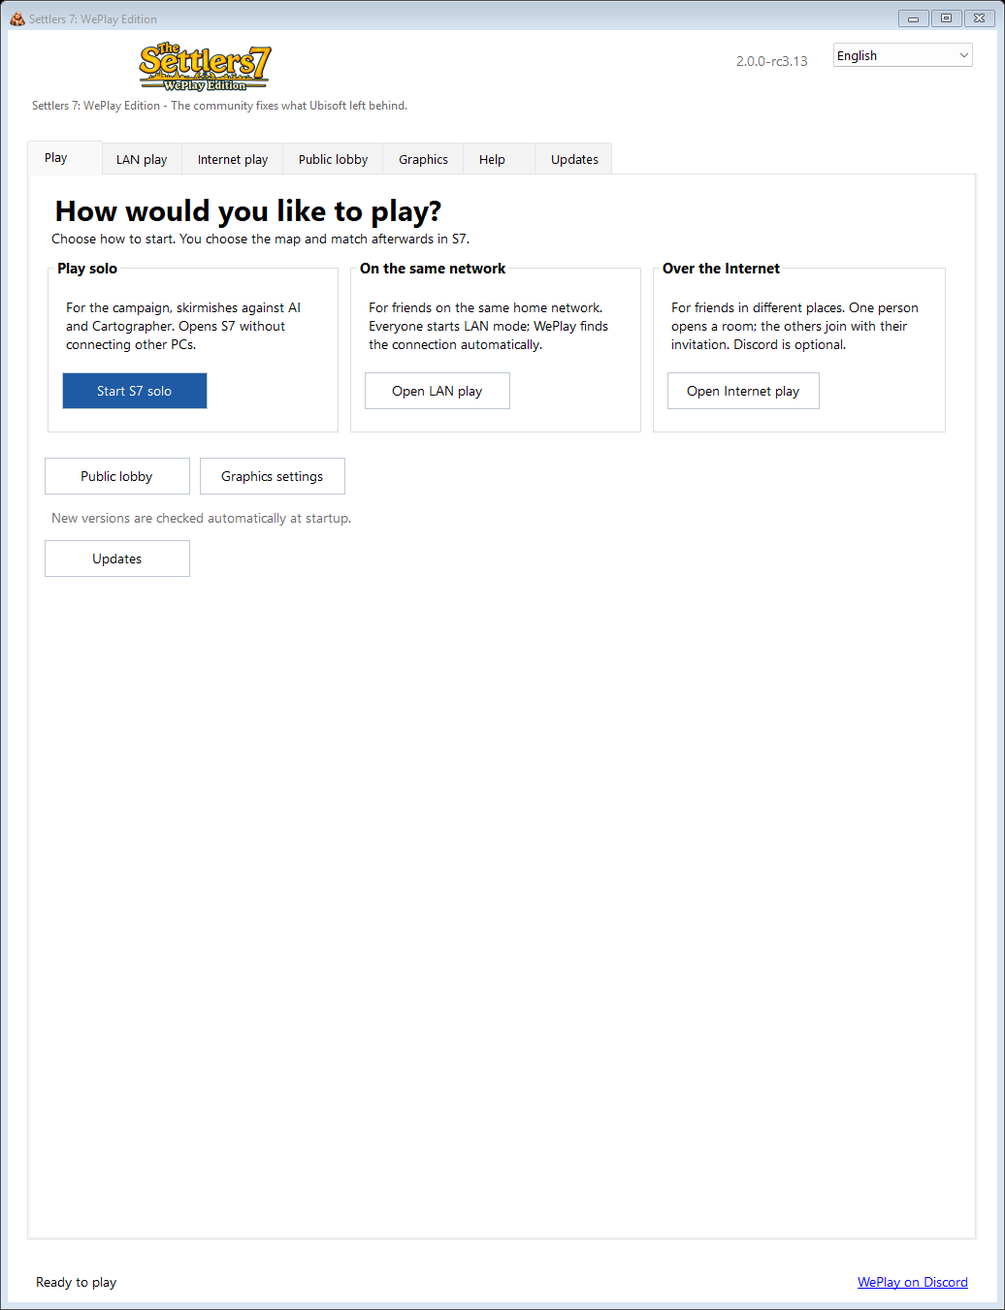
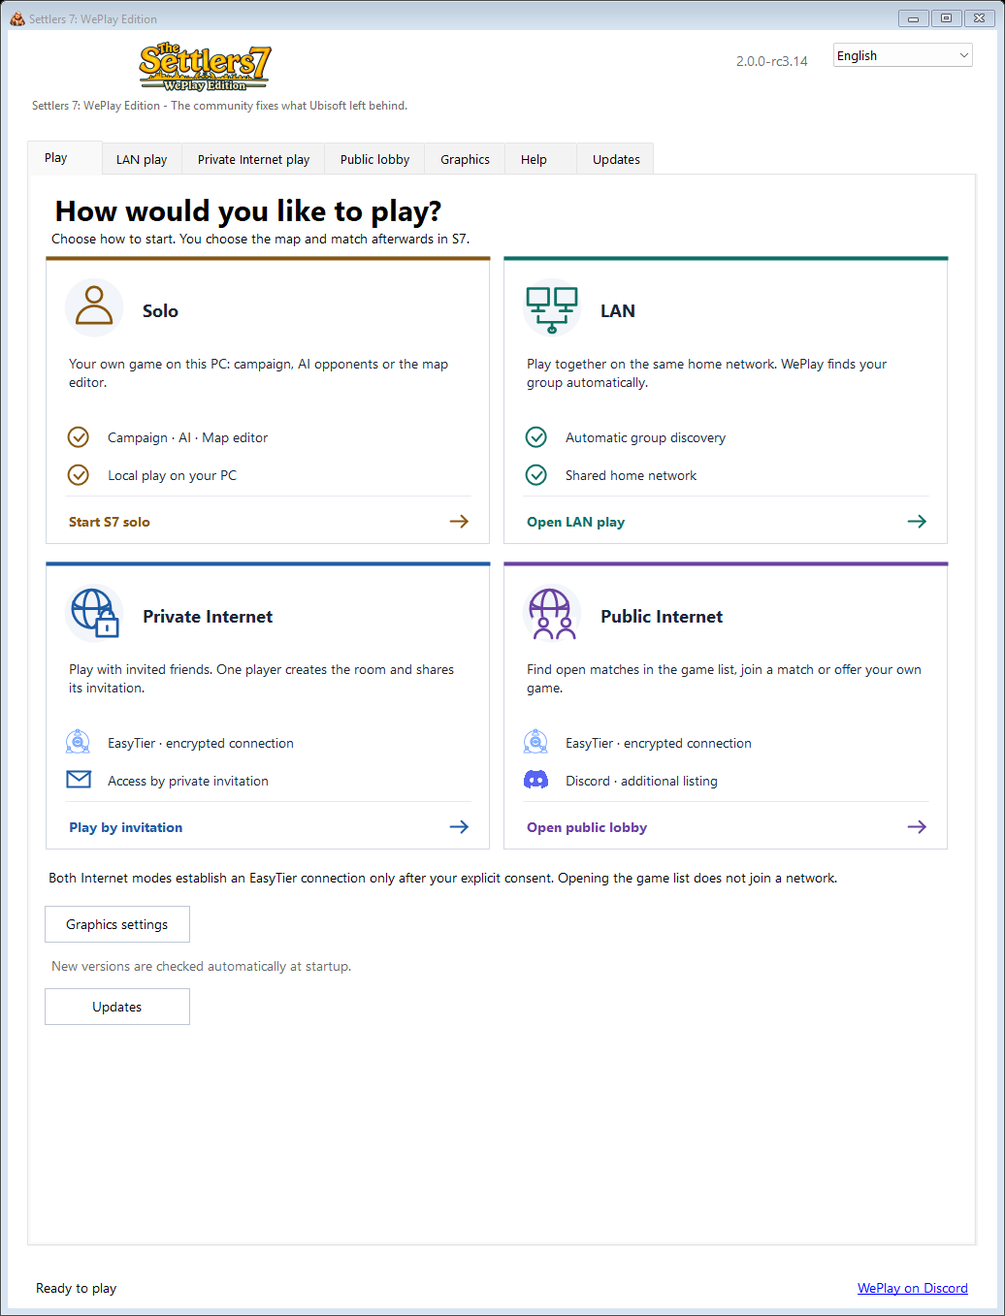
Prepare RC3.14 global lobby and standalone update release

diff --git a/tools/desktop/build_rc2.py b/tools/desktop/build_rc2.py
@@ -1,4 +1,4 @@
-"""Build the RC3.13 public lobby and network isolation preview from pinned inputs."""
+"""Build the RC3.14 global lobby and standalone update preview from pinned inputs."""
 import argparse
 import hashlib
 import json
@@ -14,7 +14,7 @@ import compatibility as content
 import install
 
 
-def build(stage,output,desktop_publish,dotnet,probe,compiler,*,base_package=None,service=None,python_zip=None,dxvk_dll=None,dxvk_license=None,easytier_runtime=None,easytier_source=None,windows_helpers=None,update_sequence=12,game_directory=False):
+def build(stage,output,desktop_publish,dotnet,probe,compiler,*,base_package=None,service=None,python_zip=None,dxvk_dll=None,dxvk_license=None,easytier_runtime=None,easytier_source=None,windows_helpers=None,update_sequence=13,game_directory=False):
     stage,output,desktop_publish,dotnet,probe,compiler=map(content.plain,(stage,output,desktop_publish,dotnet,probe,compiler))
     if stage.exists() or not stage.parent.is_dir():raise ValueError('Use a new stage directory')
     if not stage.is_relative_to(REPO/'work'):raise ValueError('Stage must be inside work')
@@ -47,15 +47,15 @@ def build(stage,output,desktop_publish,dotnet,probe,compiler,*,base_package=None
     guide=REPO/'docs/RC3-INTERNET.md'
     if guide.is_file():shutil.copyfile(guide,app/'LIESMICH.txt')
     if (REPO/'docs/DISCORD-INTEGRATION.md').is_file():shutil.copyfile(REPO/'docs/DISCORD-INTEGRATION.md',app/'DISCORD-INTEGRATION.md')
-    shutil.copyfile(REPO/'docs/RC3.13-PUBLIC-LOBBY.md',app/'RELEASE-NOTES.md')
+    shutil.copyfile(REPO/'docs/RC3.14-GLOBAL-LOBBY.md',app/'RELEASE-NOTES.md')
     if easytier_runtime is not None:
         sys.path.insert(0,str(REPO/'tools/easytier'))
         import source_bundle
         sources=app/'Source';sources.mkdir()
         source_bundle.build(easytier_source,sources/'EasyTier-corresponding-source.zip')
         shutil.copyfile(sources/'EasyTier-corresponding-source.zip',output/'EasyTier-corresponding-source.zip')
-    release={'format':'s7-desktop-release-v1','release':'RC3.13 Public Lobby and Network Isolation','network_revision':7,'game_bits':32,
-             'version':'2.0.0-rc3.13','update_sequence':update_sequence,'update_channel':'preview',
+    release={'format':'s7-desktop-release-v1','release':'RC3.14 Global Lobby and Standalone Updates','network_revision':7,'game_bits':32,
+             'version':'2.0.0-rc3.14','update_sequence':update_sequence,'update_channel':'preview',
              'internet_transport':'EasyTier 2.6.4-weplay-npcap-free-acl1' if easytier_runtime is not None else None,
              'internet_gameplay_verified':False,
              'project':'Settlers-7-WePlay-Edition',
@@ -99,7 +99,7 @@ def refresh_stage(app,desktop_publish):
         if path.is_file() and path.suffix in ('.exe','.dll','.json'):shutil.copyfile(path,app/path.name)
     if (REPO/'docs/RC3-INTERNET.md').is_file():shutil.copyfile(REPO/'docs/RC3-INTERNET.md',app/'LIESMICH.txt')
     if (REPO/'docs/DISCORD-INTEGRATION.md').is_file():shutil.copyfile(REPO/'docs/DISCORD-INTEGRATION.md',app/'DISCORD-INTEGRATION.md')
-    shutil.copyfile(REPO/'docs/RC3.13-PUBLIC-LOBBY.md',app/'RELEASE-NOTES.md')
+    shutil.copyfile(REPO/'docs/RC3.14-GLOBAL-LOBBY.md',app/'RELEASE-NOTES.md')
     for name in ('LIESMICH.txt','START-HIER.txt'):(package/name).unlink(missing_ok=True)
     return app
 
@@ -111,7 +111,7 @@ if __name__=='__main__':
     parser.add_argument('--easytier-runtime',required=True)
     parser.add_argument('--easytier-source',required=True)
     parser.add_argument('--windows-helpers',required=True)
-    parser.add_argument('--update-sequence',type=int,default=12)
+    parser.add_argument('--update-sequence',type=int,default=13)
     parser.add_argument('--game-directory',action='store_true')
     values=parser.parse_args()
     build(values.stage,values.output,values.desktop_publish,values.dotnet,values.probe,values.compiler,

diff --git a/README.md b/README.md
@@ -2,22 +2,29 @@
 
 **The community fixes what Ubisoft left behind.**
 
-Play **The Settlers 7 History Edition** locally, with friends on your home network,
-or in private Internet rooms — from one English/German Windows launcher.
+## [Download Installer — RC3.14 · Setup.exe](https://github.com/R4nd0/Settlers-7-WePlay-Edition/releases/download/v2.0.0-rc3.14/Setup.exe)
+
+Windows 10/11 x64 · English / Deutsch · Install or update your existing WePlay copy.
+
+[Download ZIP](https://github.com/R4nd0/Settlers-7-WePlay-Edition/releases/download/v2.0.0-rc3.14/WePlay-RC3.14.zip) · [Release notes and checksums](https://github.com/R4nd0/Settlers-7-WePlay-Edition/releases/tag/v2.0.0-rc3.14)
+
+Play **The Settlers 7 History Edition** solo, on LAN, in private Internet rooms
+or through the global public lobby — from one English/German Windows launcher.
 WePlay detects your supported game installation, prepares a separate copy and
 keeps the original intact. Each player needs their own supported game files.
 
-**RC3.13** adds a **Public lobby** in the launcher and the in-game **WePlay
-Online** browser. Published games show their player counts, open slots and
-compatibility. Private rooms by invitation remain a separate path and are not
-published automatically.
+**RC3.14** separates these four ways to play into distinct cards with symbols.
+The central **Public lobby** works automatically in the launcher and the in-game
+**WePlay Online** browser, without a Discord account. Public games show player
+counts, open slots and compatibility. Private invitation rooms have their own
+controls; optional Discord publication belongs in Public Internet.
 
 Before each new EasyTier connection, the launcher explains the virtual network,
 address visibility and remaining risks, and asks for explicit consent. Browsing
 the lobby starts no tunnel. The managed tunnel permits the required game/lobby
 ports and their replies, and denies other services and forwarding. It also keeps
 your startup options automatically, removing the repeated reset-options question.
-See [RC3.13 release notes and limits](docs/RC3.13-PUBLIC-LOBBY.md) and
+See [RC3.14 release notes and limits](docs/RC3.14-GLOBAL-LOBBY.md) and
 [directory setup and verification](docs/SHARED-GAME-DIRECTORY.md).
 
 Private standalone exports now also open correctly through **App/S7Launcher.exe**:
@@ -39,7 +46,7 @@ recovery and multiplayer castle corrections. Keep Steam running when using that 
 See [RC3.11 changes and test limits](docs/RC3.11-MULTIPLAYER-SAVES.md) and the
 [Steam verification and remaining limits](docs/STEAM-COMPATIBILITY.md).
 
-**[Download RC3.13 ZIP](https://github.com/R4nd0/Settlers-7-WePlay-Edition/releases/download/v2.0.0-rc3.13/WePlay-RC3.13.zip)** · [Setup.exe](https://github.com/R4nd0/Settlers-7-WePlay-Edition/releases/download/v2.0.0-rc3.13/Setup.exe) · [Release notes and checksums](https://github.com/R4nd0/Settlers-7-WePlay-Edition/releases/tag/v2.0.0-rc3.13) · [Join WePlay on Discord](https://discord.gg/j2eQgVzssc)
+[Join WePlay on Discord](https://discord.gg/j2eQgVzssc)
 
 **Includes RC3.7.1 maintenance:** correct version display and automatic cleanup of older
 managed game files, preserving saves and personal files. The safe switch to a
@@ -50,11 +57,11 @@ new game copy still temporarily needs extra disk space.
 Castle Forge design inside matches, including its appearance on the other
 client. [Castle Restoration: changes and verification](docs/RC3.7-CASTLES.md).
 
-![WePlay RC3.13 launcher in English](docs/screenshots/launcher-en.png)
+![WePlay RC3.14 launcher in English](docs/screenshots/launcher-en.png)
 
-*English RC3.13 launcher, rendered with demonstration data.*
+*English RC3.14 launcher, rendered with demonstration data.*
 
-### Development changes — not released yet
+### Standalone updates and the central lobby
 
 Existing-installation updates now stage and verify complete packages, recover
 interrupted package/standalone metadata switches, track failed game preparations
@@ -63,7 +70,7 @@ with contained old-version cleanup still pending. See
 [update recovery and qualification](docs/UPDATE-RECOVERY.md).
 
 The start page shows four distinct cards: **Solo**, **LAN**, **Private Internet**
-and **Public Internet**. The next launcher uses the centrally hosted
+and **Public Internet**. The launcher uses the centrally hosted
 [WePlay public directory](https://weplay-multiplayer.weplay-community.workers.dev/health)
 automatically and refreshes the visible game list. Public hosting and joining
 work without linking Discord. **Also publish on Discord** remains an optional
@@ -76,18 +83,16 @@ The service moved to its neutral community address on November 4, 2026. Previous
 Discord publisher links were invalidated with the owner's approval. Use
 `/weplay-hilfe` to obtain a fresh private linking code if you want Discord
 publication. Existing RC3.13 readers can use a fresh directory code from that
-helper; the automatic default and Discord-independent hosting require the
-unreleased launcher/package changes.
-
-These source changes are not included in the RC3.13 downloads above.
+helper; the automatic default and Discord-independent hosting are included in
+RC3.14.
 
 ## What you can do
 
-| Feature | Available in RC3.13 |
+| Feature | Available in RC3.14 |
 | --- | --- |
 | Local play | Start your prepared game with remembered graphics settings and player name. |
 | LAN multiplayer | Discover your LAN group automatically; create or join the actual match inside S7. |
-| Public lobby | Browse published games in the launcher or S7; join their private room, then select the native match in S7. Initial reader linking uses the Discord helper. |
+| Public lobby | Browse the central directory in the launcher or S7 without Discord; join the selected game's room, then select the native match in S7. |
 | Connection consent and isolation | Read the EasyTier explanation and explicitly agree before each new room connection; unrelated tunnel traffic and forwarding are denied. |
 | Internet rooms | Create a private room or join by invitation, using integrated EasyTier. No separate VPN installation, EasyTier account or rented WePlay server is needed. |
 | Discord community | Find players, share room invitations and optionally report your public games to the board in #🎮multiplayer. |
@@ -101,10 +106,10 @@ These source changes are not included in the RC3.13 downloads above.
 
 ## Install or upgrade
 
-1. Download and unpack the **RC3.13 ZIP**, or download **Setup.exe** directly. Close S7 and WePlay before upgrading.
-2. Run Setup; for an upgrade, use your existing WePlay application folder.
+1. Download and unpack the **RC3.14 ZIP**, or download **Setup.exe** directly. Close S7 and WePlay before upgrading. This public ZIP contains no commercial game files.
+2. Run Setup; for an upgrade, use your existing WePlay application folder. For a complete standalone export, choose **Select existing standalone copy** and select its outer folder or App folder. No original installation is needed for that update.
 3. For a first installation, select your original supported History Edition. Existing prepared copies can update from their own retained files. A complete private standalone export opens through App/S7Launcher.exe or WePlay-Starten.cmd and needs no Setup or source installation.
-4. Install the **same RC3.13 build on every player's PC** before playing together. Clients predating RC3.7 use a different castle message format.
+4. Install the **same RC3.14 build on every player's PC** before playing together. Clients predating RC3.7 use a different castle message format.
 
 You need Windows x64 (Windows 10 22H2/build 19045 or newer, including Windows 11),
 your own supported History Edition and space for a separate game copy.
@@ -148,10 +153,13 @@ templates are not supported. [Save/reload instructions and verification](docs/RC
 ## Play over the Internet
 
 A WePlay room connects the PCs; the actual match is created afterwards inside
-S7. Discord is optional and does not distribute private room invitations.
+S7. Discord is optional. Choose **Public Internet** to find players through the
+central directory, or **Private Internet** to play by invitation.
 For the guided development interface, see the [launcher walkthrough (Deutsch)](docs/LAUNCHER-GUIDE.md).
 
-1. Everyone opens **Internet play** and enters their player name.
+For a private room:
+
+1. Everyone opens **Private Internet** and enters their player name.
 2. The creator selects **Create room and start** and approves the Windows network permission prompt.
 3. Use **Copy invitation**, or **Copy for Discord** to include joining instructions. Share that private invitation only with your intended players.
 4. Friends paste it into **Paste your private invitation** and choose **Join room and start**.
@@ -173,6 +181,13 @@ launcher window keeps it in the system tray.
 
 [Internet room guide](docs/RC3-INTERNET.md)
 
+For public games, open **Public Internet**. Select a compatible open game and
+choose **Join selected game**, or create your own public room. Agree to the
+connection explanation, then create/join the actual match inside S7. Its listing
+appears automatically while the hosting launcher remains connected. Optional
+Discord publication is configured here. The public list refreshes every 15
+seconds while visible. [Central service and test limits](docs/PUBLIC-LOBBY-SERVICE.md).
+
 ## Discord: find players and show public games
 
 Join **[the WePlay Discord server](https://discord.gg/j2eQgVzssc)**. The launcher
@@ -184,8 +199,8 @@ choose where to paste/send it.
 For the optional automatic game board:
 
 1. In **#🎮multiplayer**, run **`/weplay-hilfe`** and choose **Launcher verbinden**.
-2. Paste the private connection code into **Connect to Discord** in the launcher's Internet tab. This code is not a bot token.
-3. Review **Automatically show my public games in #🎮multiplayer** before launch. Connecting initially enables it; you can turn it off or disconnect.
+2. Paste the private connection code into **Connect to Discord** in **Public Internet / Public lobby**. This code is not a bot token.
+3. Enable **Also publish on Discord** if you want this extra publication. Connecting initially leaves it off; you can turn it off or disconnect later.
 
 Connected launchers can report their own public-game titles, player counts/free
 slots and open/full or start/loading signals. Private games and room invitations

diff --git a/docs/RC3.14-GLOBAL-LOBBY.md b/docs/RC3.14-GLOBAL-LOBBY.md
@@ -1,0 +1,57 @@
+# RC3.14 — Global Lobby and Standalone Updates
+
+The launcher now presents four distinct ways to play: **Solo**, **LAN**,
+**Private Internet** and **Public Internet**, with recognizable symbols and
+separate controls. Both Internet paths use the isolated EasyTier transport.
+
+## Global public lobby
+
+- The central WePlay directory is configured automatically. Browse games in the
+  launcher or through **WePlay Online** inside S7. The visible launcher list
+  refreshes every 15 seconds and preserves the selected game.
+- Hosting and joining public games no longer require a Discord account or a
+  linking code. Joining obtains access to that game's room; select the actual
+  match inside S7 after connecting.
+- **Also publish on Discord** belongs in Public Internet and remains optional.
+  Linking Discord initially leaves publication off. Private Internet contains
+  invitation sharing and does not publish games automatically.
+- The service uses its neutral community address. Previous Discord publisher
+  links were revoked during migration; use `/weplay-hilfe` for a fresh private
+  linking code if you want optional Discord publication.
+- Browsing starts no tunnel. Each new room connection still requires explicit
+  EasyTier consent; game-port isolation and forwarding restrictions remain.
+
+## Existing installations and standalone copies
+
+- Setup recognizes complete standalone exports through their outer folder or
+  App folder and updates them without the original installation or system Python.
+  Close S7 and WePlay first; choose **Select existing standalone copy** if needed.
+- Complete packages are staged and hash-verified before replacement. Interrupted
+  package swaps and paired installation/standalone metadata can recover on retry.
+- Failed preparations track their owned files; updates reserve room for archive,
+  repair and save migration. Unknown or modified files remain protected.
+- Complete exports remain movable with contained old-version cleanup pending.
+  Starting **App/S7Launcher.exe** recognizes the bundled game before setup.
+
+## Downloads and verification
+
+Use **Setup.exe** or unpack **WePlay-RC3.14.zip** and run its Setup. The public ZIP
+contains the installer, notes, signed update manifest and EasyTier corresponding
+source; it contains no commercial game files. A first installation needs your
+supported History Edition. Existing complete standalone copies need no original.
+Standard Steam copies retain their existing Steam-client requirement.
+
+Qualified before release: source regressions, bilingual launcher/layout checks,
+package/signature checks, and standalone update/recovery tests. Two real local
+Ubisoft game clients found and joined one another using the production directory
+and encrypted join broker, with two pinned EasyTier processes.
+
+That multiplayer check used same-PC native loopback and EasyTier without TUN.
+It does **not** qualify two remote PCs, full Internet gameplay, a new Steam live
+test or long-match/desync stability. Native game and EasyTier binaries are
+unchanged. Earlier multiplayer save/autosave and crash fixes are retained.
+The installer/helpers have no trusted Windows publisher signature.
+
+See [service test limits](https://github.com/R4nd0/Settlers-7-WePlay-Edition/blob/main/docs/PUBLIC-LOBBY-SERVICE.md),
+[update recovery](https://github.com/R4nd0/Settlers-7-WePlay-Edition/blob/main/docs/UPDATE-RECOVERY.md)
+and [launcher flows](https://github.com/R4nd0/Settlers-7-WePlay-Edition/blob/main/docs/LAUNCHER-LOBBY-FLOWS.md).

diff --git a/docs/PRIVATE-STANDALONE.md b/docs/PRIVATE-STANDALONE.md
@@ -28,13 +28,14 @@ opening the EXE; their direct EXE start can incorrectly show initial setup.
 RC3.13 checks the bundled instance before showing the launcher, including after
 a whole-folder move. An incomplete or inconsistent export shows a standalone
 error instead of requesting an original installation. Re-extract the complete
-private backup to recover it; do not run the public Setup inside the export.
+private backup to recover it. Normal startup needs no Setup; use the maintenance
+instructions below when deliberately updating a complete export.
 
 ## Independent maintenance (RC3.12)
 
 ### Manual Setup and portable folders
 
-**Unreleased installer changes:** future Setup builds show the destination
+**RC3.14 installer:** Setup shows the destination
 folder and a dedicated **Select existing standalone copy** button. They detect
 an export next to Setup, its remembered application directory, or an existing
 WePlay desktop/Start-menu shortcut that points to a portable copy. Other copies
@@ -52,10 +53,10 @@ copy and RepairSource, preserving saves and settings without the original.
 All four EasyTier license/notice files are included in the pinned runtime
 manifest. Earlier RC3.13 preparation omitted them from the manifest; updating
 over RC3.12 left those old files behind and the strict inventory check rejected
-the result. Future packages retain and verify these notices rather than
+the result. RC3.14 packages retain and verify these notices rather than
 loosening the integrity check.
 
-These changes are in development; the published RC3.13 Setup is unchanged.
+These changes are included in RC3.14; the older published RC3.13 Setup is unchanged.
 The follow-up [recovery flow](UPDATE-RECOVERY.md) replaces complete packages,
 journals the active-selection/portable-descriptor pair, tracks interrupted game
 preparations and preserves contained cleanup history when an export is moved.
@@ -64,8 +65,8 @@ Further source hardening gives a parallel-operation preflight a distinct busy
 exit code, so Setup reports that an update is already using the copy rather than
 suggesting it is incomplete. Runtime validation also requires all four notices
 independently of the supplied lock-file inventory, preventing accidental omission
-from being redefined as a valid runtime. These follow-ups have source-only checks;
-they have not been deployed to running copies.
+from being redefined as a valid runtime. Source checks and isolated update tests
+are recorded below; the installer never patches a running game copy.
 Verification passed with a complete prior RC3.12 private export: the actual
 installer selected and adopted its initially unbound copy before replacement,
 then the launcher backend rebuilt the owned game with original discovery

diff --git a/docs/DISCORD-INTEGRATION.md b/docs/DISCORD-INTEGRATION.md
@@ -31,22 +31,20 @@ migration; do not run two production directory writers.
 
 ## Player flow
 
-Discord is optional for creating or joining an Internet room. It is a directory,
-not a game transport or an automatic invitation service. Players obtain the
-private WePlay room invitation directly from its creator, then select the
-actual match inside S7. A Discord community link, a publisher connection code
-and a room invitation have different purposes; see the [launcher walkthrough](LAUNCHER-GUIDE.md).
-The revised development UI places pairing under **Discord: find players
-(optional)** → **Set up / manage automatic match listings** → **Link match
-listings**; the published RC3.5 pairing labels below are unchanged.
+Discord is optional for creating or joining Internet rooms. RC3.14's central
+public directory works without Discord. Private rooms use an invitation shared
+by their creator; public listings obtain room access through the encrypted join
+broker. Players select the actual match inside S7 after connecting. A Discord
+community link, a publisher connection code and a room invitation have different
+purposes; see the [launcher flows](LAUNCHER-LOBBY-FLOWS.md).
 
 1. In #🎮multiplayer run `/weplay-hilfe` and choose **Launcher verbinden**.
 2. Copy the private connection code from Discord's ephemeral response into
-   **Mit Discord verbinden** in the launcher's Internet tab. This is a limited
+   **Mit Discord verbinden** in **Public Internet / Public lobby**. This is a limited
    publisher grant, never the bot token. A new code invalidates the old grant.
-3. Select whether to show your own public games before starting Internet play.
-   The connection action enables this preference initially; the checkbox can
-   disable it before launch. Private games are omitted in all cases.
+3. Explicitly enable **Also publish on Discord** before opening your public room
+   if you want this additional listing. Linking leaves it off initially. Private
+   games are omitted in all cases.
 4. The launcher reports changes while the game is open, sends a heartbeat every
    minute and withdraws its report on normal closure. Missing reports expire
    after three minutes; the minute Cron removes them from the displayed board.

diff --git a/docs/LAUNCHER-LOBBY-FLOWS.md b/docs/LAUNCHER-LOBBY-FLOWS.md
@@ -1,6 +1,6 @@
 # Launcher game paths and Internet lobbies
 
-The unreleased launcher presents four equal cards in a two-by-two grid on its
+The RC3.14 launcher presents four equal cards in a two-by-two grid on its
 start page. Each entire card is a keyboard-accessible button with a readable
 title, a distinct symbol, features and a specific action. Color is an additional
 cue, not the only distinction.
@@ -49,7 +49,7 @@ automatically joins the host's bounded room after a player chooses a match.
 Per-room isolation and the existing restrictive network policy are retained;
 this UI change does not widen peer access or deploy a global shared network.
 
-The unreleased directory configuration points to the centrally operated neutral
+The RC3.14 directory configuration points to the centrally operated neutral
 community service. Opening the public tab fetches its game metadata; the visible
 list refreshes every 15 seconds and keeps the selected game when still present.
 Readers need no linking code. Explicit directory/join codes remain available for

diff --git a/docs/SHARED-GAME-DIRECTORY.md b/docs/SHARED-GAME-DIRECTORY.md
@@ -1,8 +1,8 @@
 # Shared game directory and private joining
 
-The directory protocol is included in RC3.13. The central default service and
-Discord-independent public hosting described below are unreleased follow-up
-changes; they are not in the existing RC3.13 downloads. The earlier RC3.12 ZIP
+The directory protocol is included in RC3.13. RC3.14 adds the central default
+service and Discord-independent public hosting described below; these are not
+in the older RC3.13 downloads. The earlier RC3.12 ZIP
 does not contain the directory protocol.
 EasyTier remains the transport; this is original
 WePlay code, with no aLobby code copied into the MIT project.

diff --git a/docs/PUBLIC-LOBBY-SERVICE.md b/docs/PUBLIC-LOBBY-SERVICE.md
@@ -10,7 +10,7 @@ EasyTier network was introduced.
 
 ## Launcher and Discord
 
-The unreleased package configures this address automatically. Opening Public
+The RC3.14 package configures this address automatically. Opening Public
 lobby reads metadata and refreshes the visible list every 15 seconds. Offering
 and joining games do not require a Discord account. Each selected match retains
 its bounded EasyTier room and explicit per-connection consent. Native content,

diff --git a/docs/UPDATE-RECOVERY.md b/docs/UPDATE-RECOVERY.md
@@ -1,6 +1,6 @@
 # Recoverable installer and managed-game updates
 
-This is an unreleased follow-up to the
+RC3.14 includes this follow-up to the
 [update/patch audit](UPDATE-PATCH-AUDIT.md). Published RC3.13 assets and existing
 private ZIPs have not been replaced. No game executable, native adapter, service
 binary, account check or ABI guard was changed by this work.
